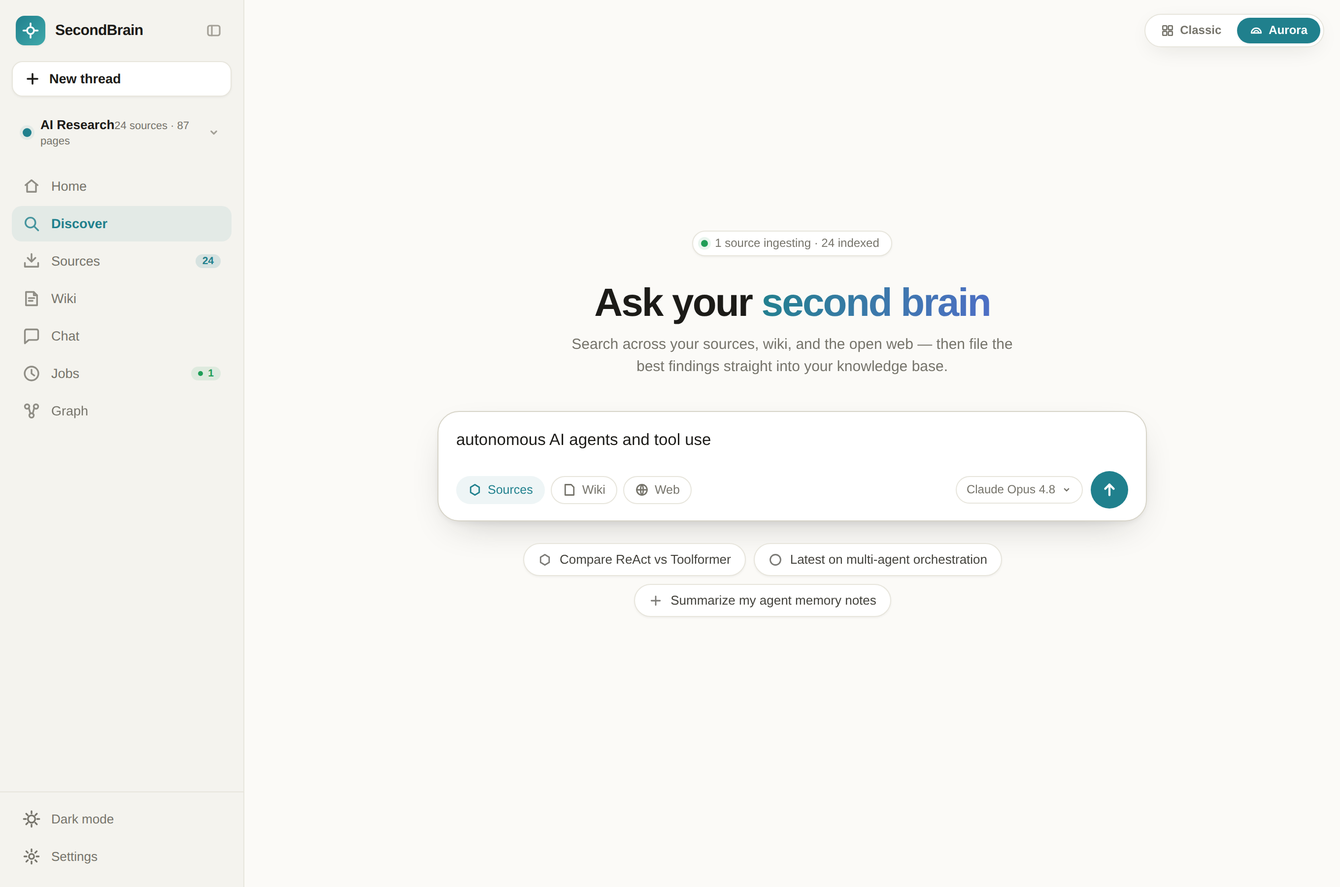
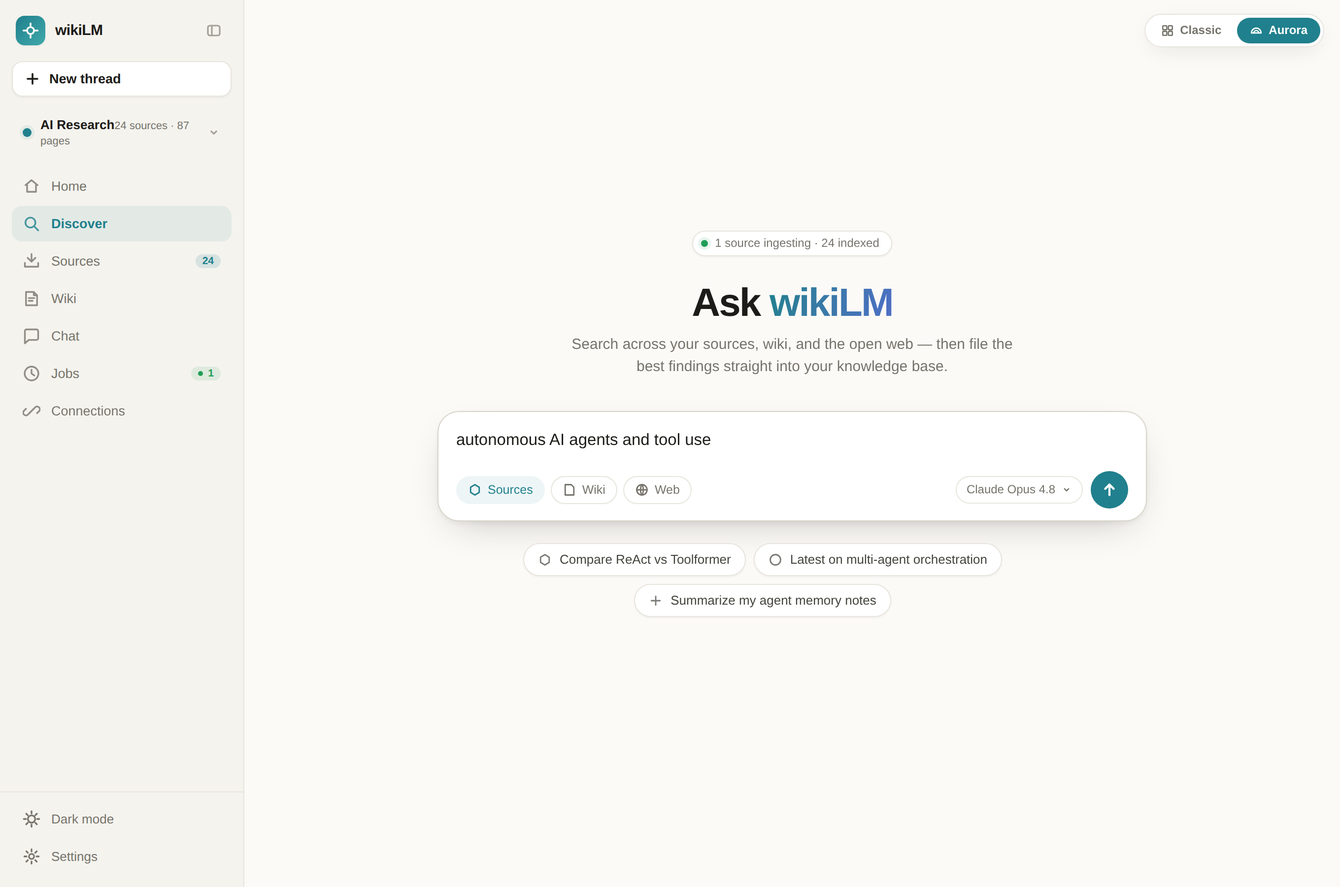
Rename to wikiLM, replace KG view with a Connections surface
- Rebrand SecondBrain -> wikiLM everywhere in both mockups (logo, title,
  chat sender, hero 'Ask wikiLM', composer placeholder).
- Remove the in-app Knowledge Graph view (Obsidian's graph replaces it).
- New Connections view (Aurora) with integration cards:
  * Claude API  - bring your own Anthropic key + model (vs Claude Pro)
  * MCP connectivity - drive wikiLM from Claude over MCP; reach out to
    other MCP servers; toggle gates Tavily availability
  * Notion - two-way sync so the wiki is readable/editable from Claude web+mobile
  * Tavily - web search for research, available when MCP is enabled
  * Obsidian - export pages as linked Markdown into a vault; Obsidian draws the graph
- Classic mockup: Graph nav -> Connections; brand renamed.
- showView now guards unknown views; palette + g-shortcuts updated.

Verified headless: all-pass smoke (rename, nav, 5 integration cards,
Tavily MCP-gating, palette) with zero JS errors; screenshots refreshed.

Claude-Session: https://claude.ai/code/session_01SDP3HT3M86EHRa3pb1VFTi

Changed region(s): [[0.4375, 0.3111, 0.75, 0.3733], [0.0312, 0.0311, 0.0938, 0.0622], [0.0625, 0.4356, 0.0938, 0.4667]]

diff --git a/mockup-perplexity.html b/mockup-perplexity.html
@@ -3,13 +3,13 @@
 <head>
 <meta charset="UTF-8">
 <meta name="viewport" content="width=device-width, initial-scale=1.0">
-<title>SecondBrain — Aurora Frontend</title>
+<title>wikiLM — Aurora Frontend</title>
 <link rel="preconnect" href="https://fonts.googleapis.com">
 <link rel="preconnect" href="https://fonts.gstatic.com" crossorigin>
 <link href="https://fonts.googleapis.com/css2?family=Inter:wght@350..700&display=swap" rel="stylesheet">
 <style>
   /* ════════════════════════════════════════════════════════════
-     SecondBrain · "Aurora" — a clean, search-first frontend (Perplexity-inspired)
+     wikiLM · "Aurora" — a clean, search-first frontend (Perplexity-inspired)
      Clean, paper-warm, true-turquoise accent. No italics anywhere.
      Smooth cubic-bezier motion. Fully navigable: Discover, Sources,
      Wiki, Chat, Jobs, Graph, Settings.
@@ -598,6 +598,30 @@
   .mini-link { font-size: 12px; color: var(--accent); cursor: pointer; background: none; border: none; font-family: inherit; }
   .mini-link:hover { text-decoration: underline; }
 
+  /* ════════ Connections / integrations ════════ */
+  .intg { background: var(--surface); border: 1px solid var(--border); border-radius: 16px; padding: 18px 20px; margin-bottom: 12px;
+    transition: all 200ms var(--ease); opacity: 0; transform: translateY(10px); animation: rise 500ms var(--ease) forwards; }
+  .intg:hover { border-color: var(--border-strong); box-shadow: var(--shadow-sm); }
+  .intg.off { opacity: 0.6; }
+  .intg-top { display: flex; align-items: center; gap: 13px; }
+  .intg-icon { width: 40px; height: 40px; border-radius: 11px; flex-shrink: 0; display: flex; align-items: center; justify-content: center; color: #fff; }
+  .intg-icon svg { width: 20px; height: 20px; }
+  .intg-name { font-size: 15px; font-weight: 620; color: var(--text-1); display: flex; align-items: center; gap: 9px; }
+  .intg-desc { font-size: 12.5px; color: var(--text-3); margin-top: 2px; line-height: 1.45; max-width: 64ch; }
+  .intg-status { font-size: 10.5px; font-weight: 680; padding: 2px 9px; border-radius: 100px; text-transform: uppercase; letter-spacing: 0.03em; }
+  .intg-status.on { background: var(--green-wash); color: var(--green); }
+  .intg-status.avail { background: var(--accent-wash-2); color: var(--accent); }
+  .intg-status.no { background: var(--bg-2); color: var(--text-3); }
+  .intg-actions { margin-left: auto; display: flex; align-items: center; gap: 8px; flex-shrink: 0; }
+  .intg-config { margin-top: 14px; padding-top: 14px; border-top: 1px solid var(--border); display: flex; flex-direction: column; gap: 10px; }
+  .intg-field { display: flex; align-items: center; gap: 10px; }
+  .intg-field label { font-size: 12.5px; color: var(--text-2); font-weight: 520; width: 110px; flex-shrink: 0; }
+  .intg-input { flex: 1; background: var(--bg-0); border: 1px solid var(--border-input, var(--border)); border-radius: 9px; padding: 8px 11px;
+    font-family: ui-monospace, monospace; font-size: 12.5px; color: var(--text-1); outline: none; transition: all 150ms var(--ease); }
+  .intg-input:focus { border-color: var(--accent); box-shadow: 0 0 0 3px var(--ring); }
+  .intg-note { font-size: 11.5px; color: var(--text-4); display: flex; align-items: center; gap: 6px; }
+  .intg-note svg { width: 13px; height: 13px; }
+
   /* ════════ Command palette (⌘K) ════════ */
   .overlay { position: fixed; inset: 0; z-index: 300; background: rgba(10,10,12,0.42); backdrop-filter: blur(3px);
     display: flex; opacity: 0; pointer-events: none; transition: opacity 220ms var(--ease); }
@@ -768,7 +792,7 @@
       <div class="logo-mark">
         <svg viewBox="0 0 16 16" fill="none" stroke="#fff" stroke-width="1.7"><circle cx="8" cy="8" r="3.3"/><path d="M8 1.2v2.2M8 12.6v2.2M1.2 8h2.2M12.6 8h2.2"/></svg>
       </div>
-      <span class="logo-text">SecondBrain</span>
+      <span class="logo-text">wikiLM</span>
       <button class="collapse-btn" onclick="toggleSidebar()" title="Collapse sidebar">
         <svg width="16" height="16" viewBox="0 0 16 16" fill="none" stroke="currentColor" stroke-width="1.6"><rect x="2" y="3" width="12" height="10" rx="2"/><line x1="6" y1="3" x2="6" y2="13"/></svg>
       </button>
@@ -814,9 +838,9 @@
       <a class="nav-item" data-view="jobs" onclick="showView('jobs')">
         <svg viewBox="0 0 16 16" fill="none" stroke="currentColor" stroke-width="1.5"><circle cx="8" cy="8" r="6.2"/><polyline points="8,4.5 8,8 10.5,9.8"/></svg>
         <span class="lbl">Jobs</span><span class="badge run">1</span></a>
-      <a class="nav-item" data-view="graph" onclick="showView('graph')">
-        <svg viewBox="0 0 16 16" fill="none" stroke="currentColor" stroke-width="1.5"><circle cx="4" cy="4" r="2"/><circle cx="12" cy="4" r="2"/><circle cx="8" cy="12" r="2"/><line x1="5.5" y1="5" x2="7" y2="10.5"/><line x1="10.5" y1="5" x2="9" y2="10.5"/></svg>
-        <span class="lbl">Graph</span></a>
+      <a class="nav-item" data-view="connections" onclick="showView('connections')">
+        <svg viewBox="0 0 16 16" fill="none" stroke="currentColor" stroke-width="1.5"><path d="M6.5 9.5l-2 2a2.5 2.5 0 01-3.5-3.5l2-2"/><path d="M9.5 6.5l2-2a2.5 2.5 0 013.5 3.5l-2 2"/><line x1="6" y1="10" x2="10" y2="6"/></svg>
+        <span class="lbl">Connections</span></a>
     </nav>
 
     <div class="side-foot">
@@ -864,7 +888,7 @@
       <section class="view active" id="view-discover">
         <div class="home" id="home">
           <span class="hero-badge"><span class="pip"></span> 1 source ingesting · 24 indexed</span>
-          <h1 class="hero-title">Ask your <span class="grad">second brain</span></h1>
+          <h1 class="hero-title">Ask <span class="grad">wikiLM</span></h1>
           <p class="hero-sub">Search across your sources, wiki, and the open web — then file the best findings straight into your knowledge base.</p>
           <div class="composer-wrap">
             <div class="composer" id="composer">
@@ -990,7 +1014,7 @@
           <div class="chat-msgs" id="chatMsgs"></div>
           <div class="chat-composer">
             <div class="chat-box">
-              <input id="chatInput" placeholder="Message your second brain…" onkeydown="if(event.key==='Enter')sendChat()">
+              <input id="chatInput" placeholder="Message wikiLM…" onkeydown="if(event.key==='Enter')sendChat()">
               <button class="model-chip">Claude Opus 4.8 <svg width="11" height="11" viewBox="0 0 16 16" fill="none" stroke="currentColor" stroke-width="1.8"><path d="M5 6.5l3 3 3-3"/></svg></button>
               <button class="send" onclick="sendChat()"><svg width="17" height="17" viewBox="0 0 16 16" fill="none" stroke="currentColor" stroke-width="2"><line x1="8" y1="13" x2="8" y2="3"/><path d="M4 7l4-4 4 4"/></svg></button>
             </div>
@@ -1007,25 +1031,78 @@
       </section>
 
       <!-- ════ GRAPH ════ -->
-      <section class="view" id="view-graph">
-        <div class="graph-wrap">
-          <div class="page-head row">
-            <div><h1 class="page-title">Knowledge graph</h1><p class="page-sub">87 pages · 142 links · hover a node to trace its connections</p></div>
-            <span class="spacer"></span>
-            <button class="btn ghost" onclick="showToast('Re-laying out graph…')"><svg viewBox="0 0 16 16" fill="none" stroke="currentColor" stroke-width="1.6"><path d="M13 3v3h-3M3 13v-3h3"/><path d="M13 6A5.5 5.5 0 003 7M3 10a5.5 5.5 0 0010 -1"/></svg> Re-layout</button>
-          </div>
-          <div class="graph-stage" id="graphStage">
-            <div class="graph-ctrls">
-              <button class="gctrl" onclick="graphZoom(1.25)" title="Zoom in"><svg width="15" height="15" viewBox="0 0 16 16" fill="none" stroke="currentColor" stroke-width="1.8"><line x1="8" y1="4" x2="8" y2="12"/><line x1="4" y1="8" x2="12" y2="8"/></svg></button>
-              <button class="gctrl" onclick="graphZoom(0.8)" title="Zoom out"><svg width="15" height="15" viewBox="0 0 16 16" fill="none" stroke="currentColor" stroke-width="1.8"><line x1="4" y1="8" x2="12" y2="8"/></svg></button>
-              <button class="gctrl" onclick="graphReset()" title="Reset view"><svg width="14" height="14" viewBox="0 0 16 16" fill="none" stroke="currentColor" stroke-width="1.7"><path d="M2 8a6 6 0 116 6"/><path d="M2 12V8h4"/></svg></button>
+      <section class="view" id="view-connections">
+        <div class="page">
+          <div class="page-head"><h1 class="page-title">Connections</h1><p class="page-sub">Bring wikiLM into your tools — drive it from Claude over MCP, sync to Notion, and let Obsidian draw the graph.</p></div>
+
+          <!-- Claude API -->
+          <div class="intg" style="animation-delay:0ms">
+            <div class="intg-top">
+              <span class="intg-icon" style="background:#d97757"><svg viewBox="0 0 16 16" fill="none" stroke="#fff" stroke-width="1.7"><path d="M8 1.5l5.5 9.5h-11z"/><line x1="8" y1="6" x2="8" y2="9"/></svg></span>
+              <div><div class="intg-name">Claude API <span class="intg-status on">Connected</span></div>
+                <div class="intg-desc">Use your own Anthropic API key and model instead of a Claude subscription. Powers answers, chat, and synthesis.</div></div>
+              <div class="intg-actions"><button class="btn ghost" onclick="showToast('Tested — key valid')">Test</button></div>
+            </div>
+            <div class="intg-config">
+              <div class="intg-field"><label>API key</label><input class="intg-input" type="password" value="sk-ant-api03-•••••••••••••••••••••••" onchange="showToast('API key saved')"></div>
+              <div class="intg-field"><label>Model</label><div class="select" onclick="showToast('Model menu (mock)')">Claude Opus 4.8 <svg viewBox="0 0 16 16" fill="none" stroke="currentColor" stroke-width="1.8"><path d="M5 6.5l3 3 3-3"/></svg></div>
+                <span class="intg-note"><svg viewBox="0 0 16 16" fill="none" stroke="currentColor" stroke-width="1.6"><circle cx="8" cy="8" r="6.5"/><line x1="8" y1="7" x2="8" y2="11"/><circle cx="8" cy="4.6" r="0.6" fill="currentColor"/></svg> Falls back to Claude Pro if no key is set</span></div>
             </div>
           </div>
-          <div class="graph-legend">
-            <div class="glegend"><span class="gl" style="background:var(--accent)"></span> Concept</div>
-            <div class="glegend"><span class="gl" style="background:#2f6fed"></span> Paper</div>
-            <div class="glegend"><span class="gl" style="background:#7c5cff"></span> Method</div>
-            <div class="glegend"><span class="gl" style="background:var(--amber)"></span> Note</div>
+
+          <!-- MCP connectivity -->
+          <div class="intg" style="animation-delay:60ms">
+            <div class="intg-top">
+              <span class="intg-icon" style="background:var(--accent)"><svg viewBox="0 0 16 16" fill="none" stroke="var(--accent-fg)" stroke-width="1.6"><path d="M6.5 9.5l-2 2a2.5 2.5 0 01-3.5-3.5l2-2"/><path d="M9.5 6.5l2-2a2.5 2.5 0 013.5 3.5l-2 2"/><line x1="6" y1="10" x2="10" y2="6"/></svg></span>
+              <div><div class="intg-name">MCP connectivity <span class="intg-status on">Enabled</span></div>
+                <div class="intg-desc">Control wikiLM from Claude Code, Desktop, or the web/mobile app over the Model Context Protocol — and let wikiLM reach other MCP servers (Notion, Tavily) in turn.</div></div>
+              <div class="intg-actions"><div class="toggle on" id="mcpToggle" onclick="toggleMcp()"></div></div>
+            </div>
+            <div class="intg-config">
+              <div class="intg-field"><label>Server</label><input class="intg-input" value="wikilm-mcp · node mcp/dist/index.js (stdio)" readonly></div>
+              <div class="intg-note"><svg viewBox="0 0 16 16" fill="none" stroke="currentColor" stroke-width="1.6"><polyline points="3,8 7,12 13,4"/></svg> Exposes list/search/read wiki, projects, and save-note tools to Claude</div>
+            </div>
+          </div>
+
+          <!-- Notion -->
+          <div class="intg" style="animation-delay:120ms">
+            <div class="intg-top">
+              <span class="intg-icon" style="background:#111"><svg viewBox="0 0 16 16" fill="none" stroke="#fff" stroke-width="1.4"><rect x="3" y="2.5" width="10" height="11" rx="1"/><path d="M5.5 5.5v5M5.5 5.5l3 5M8.5 5.5v5"/></svg></span>
+              <div><div class="intg-name">Notion <span class="intg-status on">Synced</span></div>
+                <div class="intg-desc">Two-way sync your wiki to a Notion workspace, so you can read and edit it from Claude on web and mobile. Last synced 4 minutes ago.</div></div>
+              <div class="intg-actions"><button class="btn ghost" onclick="showToast('Syncing 87 pages to Notion…')"><svg viewBox="0 0 16 16" fill="none" stroke="currentColor" stroke-width="1.6"><path d="M13 3v3h-3M3 13v-3h3"/><path d="M13 6A5.5 5.5 0 003 7M3 10a5.5 5.5 0 0010 -1"/></svg> Sync now</button></div>
+            </div>
+            <div class="intg-config">
+              <div class="intg-field"><label>Workspace</label><input class="intg-input" value="AI Research · /wikiLM (database)" readonly></div>
+              <div class="intg-field"><label>Direction</label><div class="select" onclick="showToast('Sync direction (mock)')">Two-way <svg viewBox="0 0 16 16" fill="none" stroke="currentColor" stroke-width="1.8"><path d="M5 6.5l3 3 3-3"/></svg></div></div>
+            </div>
+          </div>
+
+          <!-- Tavily (gated on MCP) -->
+          <div class="intg" id="tavilyCard" style="animation-delay:180ms">
+            <div class="intg-top">
+              <span class="intg-icon" style="background:#2f6fed"><svg viewBox="0 0 16 16" fill="none" stroke="#fff" stroke-width="1.7"><circle cx="7" cy="7" r="4.5"/><line x1="10.5" y1="10.5" x2="14" y2="14"/></svg></span>
+              <div><div class="intg-name">Tavily <span class="intg-status avail" id="tavilyStatus">Available</span></div>
+                <div class="intg-desc">High-quality web search for research runs. Available whenever MCP connectivity is enabled.</div></div>
+              <div class="intg-actions"><button class="btn primary" id="tavilyBtn" onclick="showToast('Tavily connected')">Connect</button></div>
+            </div>
+            <div class="intg-config">
+              <div class="intg-field"><label>API key</label><input class="intg-input" type="password" placeholder="tvly-••••••••••••••••"></div>
+            </div>
+          </div>
+
+          <!-- Obsidian (replaces the graph) -->
+          <div class="intg" style="animation-delay:240ms">
+            <div class="intg-top">
+              <span class="intg-icon" style="background:#7c5cff"><svg viewBox="0 0 16 16" fill="none" stroke="#fff" stroke-width="1.4"><path d="M8 1.5l4.5 3v7L8 14.5 3.5 11.5v-7z"/><circle cx="8" cy="8" r="1.6"/></svg></span>
+              <div><div class="intg-name">Obsidian <span class="intg-status on">Vault linked</span></div>
+                <div class="intg-desc">wikiLM exports pages as linked Markdown into an Obsidian vault — so Obsidian's graph view does the heavy lifting, no in-app graph needed.</div></div>
+              <div class="intg-actions"><button class="btn ghost" onclick="showToast('Exported 87 pages to vault')"><svg viewBox="0 0 16 16" fill="none" stroke="currentColor" stroke-width="1.6"><path d="M8 2v8M4.5 6.5L8 10l3.5-3.5"/><path d="M2.5 11v2.5h11V11"/></svg> Export now</button></div>
+            </div>
+            <div class="intg-config">
+              <div class="intg-field"><label>Vault path</label><input class="intg-input" value="~/Obsidian/AI Research" onchange="showToast('Vault path saved')"></div>
+              <div class="intg-note"><svg viewBox="0 0 16 16" fill="none" stroke="currentColor" stroke-width="1.6"><path d="M3 8h10M8 3v10"/></svg> Pages link with [[wikilinks]]; open the vault in Obsidian to explore the graph</div>
+            </div>
           </div>
         </div>
       </section>
@@ -1135,7 +1212,7 @@
   ];
 
   const LIBRARY = [
-    { type:'PDF', color:'var(--red)', title:'Karpathy — LLM Wiki Second Brain', meta:'Medium · Apr 2026', status:'ingested', stat:'Ingested · 14 pages', cls:'pdf' },
+    { type:'PDF', color:'var(--red)', title:'Karpathy — Building an LLM Wiki', meta:'Medium · Apr 2026', status:'ingested', stat:'Ingested · 14 pages', cls:'pdf' },
     { type:'Web', color:'var(--accent)', title:'Attention Is All You Need', meta:'arXiv · 2017', status:'ingested', stat:'Ingested · 22 pages', cls:'web' },
     { type:'Web', color:'var(--accent)', title:'The Bitter Lesson — Rich Sutton', meta:'sutton.ca · 2019', status:'ingested', stat:'Ingested · 8 pages', cls:'web' },
     { type:'Note', color:'var(--amber)', title:'Meeting notes — AI strategy sync', meta:'Personal · Apr 12', status:'pending', stat:'Pending ingestion', cls:'note' },
@@ -1295,6 +1372,15 @@
     const tg = document.getElementById('setSideToggle'); if (tg) tg.classList.toggle('on', !c);
   }
   function toggleDrawer(){ const o = document.body.dataset.drawer === 'open'; document.body.dataset.drawer = o ? '' : 'open'; }
+  function toggleMcp(){
+    const t = document.getElementById('mcpToggle'); const on = t.classList.toggle('on');
+    // Tavily is only available when MCP connectivity is on
+    const card = document.getElementById('tavilyCard'), st = document.getElementById('tavilyStatus'), btn = document.getElementById('tavilyBtn');
+    card.classList.toggle('off', !on);
+    st.textContent = on ? 'Available' : 'Needs MCP'; st.className = 'intg-status ' + (on ? 'avail' : 'no');
+    btn.disabled = !on; btn.style.opacity = on ? '1' : '0.5'; btn.style.pointerEvents = on ? 'auto' : 'none';
+    showToast(on ? 'MCP connectivity enabled' : 'MCP connectivity disabled');
+  }
   function togglePill(el){ el.classList.toggle('on'); }
   function toggleProj(e){ e.stopPropagation(); document.getElementById('projMenu').classList.toggle('open'); }
   document.addEventListener('click', e => { if (!e.target.closest('.proj')) document.getElementById('projMenu').classList.remove('open'); });
@@ -1302,8 +1388,9 @@
   /* ───────── View routing ───────── */
   const built = {};
   function showView(name){
-    document.querySelectorAll('.view').forEach(v => v.classList.remove('active'));
     const view = document.getElementById('view-' + name);
+    if (!view) return; // unknown view — ignore (e.g. removed Graph)
+    document.querySelectorAll('.view').forEach(v => v.classList.remove('active'));
     view.classList.add('active');
     // Restart the entry animation so the transition plays on *every* navigation,
     // not just the first time the view is shown.
@@ -1316,7 +1403,6 @@
     if (name === 'wiki' && !built.wiki){ renderWikiList(); selectWiki(WIKI[0].slug); built.wiki = true; }
     if (name === 'chat' && !built.chat){ renderChat(); built.chat = true; }
     if (name === 'jobs'){ renderJobs(); }
-    if (name === 'graph' && !built.graph){ renderGraph(); built.graph = true; }
     if (name === 'settings'){ syncSettings(); }
   }
   function syncSettings(){
@@ -1525,7 +1611,7 @@
       <div class="cite-panel-body"><div>${rows}</div></div></div>`;
   }
   function msgHTML(m){
-    const who = m.who === 'user' ? 'You' : 'SecondBrain';
+    const who = m.who === 'user' ? 'You' : 'wikiLM';
     const av = m.who === 'user' ? 'NE' : '<svg width="15" height="15" viewBox="0 0 16 16" fill="none" stroke="currentColor" stroke-width="1.7"><circle cx="8" cy="8" r="3.3"/><path d="M8 1.2v2.2M8 12.6v2.2M1.2 8h2.2M12.6 8h2.2"/></svg>';
     const cites = m.who === 'bot' ? citePanelHTML(m.cites) : '';
     const actions = m.who === 'bot' ? `<div class="msg-actions"><button class="tool" onclick="showToast('Saved as note')"><svg viewBox="0 0 16 16" fill="none" stroke="currentColor" stroke-width="1.7"><path d="M3 2h10v13l-5-3.5L3 15z"/></svg> Save as note</button><button class="tool" onclick="showToast('Copied')"><svg viewBox="0 0 16 16" fill="none" stroke="currentColor" stroke-width="1.7"><rect x="3" y="3" width="8" height="8" rx="1.5"/><path d="M6 3V2.5A1.5 1.5 0 017.5 1H13a1.5 1.5 0 011.5 1.5V8a1.5 1.5 0 01-1.5 1.5h-.5"/></svg> Copy</button></div>` : '';
@@ -1543,7 +1629,7 @@
     const box = document.getElementById('chatMsgs');
     const u = document.createElement('div'); u.className = 'msg user'; u.innerHTML = msgHTML({ who:'user', text:`<p>${q}</p>` }); box.appendChild(u);
     const b = document.createElement('div'); b.className = 'msg bot';
-    b.innerHTML = `<div class="av"><svg width="15" height="15" viewBox="0 0 16 16" fill="none" stroke="currentColor" stroke-width="1.7"><circle cx="8" cy="8" r="3.3"/><path d="M8 1.2v2.2M8 12.6v2.2M1.2 8h2.2M12.6 8h2.2"/></svg></div><div class="body"><div class="who">SecondBrain</div><div class="txt"><div class="typing"><span></span><span></span><span></span></div></div></div>`;
+    b.innerHTML = `<div class="av"><svg width="15" height="15" viewBox="0 0 16 16" fill="none" stroke="currentColor" stroke-width="1.7"><circle cx="8" cy="8" r="3.3"/><path d="M8 1.2v2.2M8 12.6v2.2M1.2 8h2.2M12.6 8h2.2"/></svg></div><div class="body"><div class="who">wikiLM</div><div class="txt"><div class="typing"><span></span><span></span><span></span></div></div></div>`;
     box.appendChild(b);
     document.getElementById('scroll').scrollTop = document.getElementById('scroll').scrollHeight;
     setTimeout(() => {
@@ -1705,7 +1791,7 @@
     { group:'Go to', icon:'wiki', label:'Wiki', run:()=>showView('wiki') },
     { group:'Go to', icon:'chat', label:'Chat', run:()=>showView('chat') },
     { group:'Go to', icon:'jobs', label:'Jobs', run:()=>showView('jobs') },
-    { group:'Go to', icon:'graph', label:'Graph', run:()=>showView('graph') },
+    { group:'Go to', icon:'conn', label:'Connections', run:()=>showView('connections') },
     { group:'Go to', icon:'gear', label:'Settings', run:()=>showView('settings') },
     { group:'Actions', icon:'plus', label:'New thread', sub:'⌘⇧O', run:()=>newThread() },
     { group:'Actions', icon:'theme', label:'Toggle light / dark', sub:'⌘J', run:()=>toggleTheme() },
@@ -1717,7 +1803,8 @@
     src:'<path d="M8 1.5v7M4.5 5L8 8.5 11.5 5"/><path d="M2 9.5v3.5h12V9.5"/>', wiki:'<path d="M3 2h7l3 3v9H3z"/>', chat:'<path d="M14 10a1.5 1.5 0 01-1.5 1.5h-7L2 14.5V3.5A1.5 1.5 0 013.5 2h9A1.5 1.5 0 0114 3.5z"/>',
     jobs:'<circle cx="8" cy="8" r="6.2"/><polyline points="8,4.5 8,8 10.5,9.8"/>', graph:'<circle cx="4" cy="4" r="2"/><circle cx="12" cy="4" r="2"/><circle cx="8" cy="12" r="2"/>',
     gear:'<circle cx="8" cy="8" r="2.3"/><path d="M8 1.5v2M8 12.5v2M1.5 8h2M12.5 8h2"/>', plus:'<line x1="8" y1="3" x2="8" y2="13"/><line x1="3" y1="8" x2="13" y2="8"/>',
-    theme:'<circle cx="8" cy="8" r="3.3"/><line x1="8" y1="1" x2="8" y2="3"/><line x1="8" y1="13" x2="8" y2="15"/>', key:'<rect x="2" y="5" width="12" height="7" rx="1.5"/>'
+    theme:'<circle cx="8" cy="8" r="3.3"/><line x1="8" y1="1" x2="8" y2="3"/><line x1="8" y1="13" x2="8" y2="15"/>', key:'<rect x="2" y="5" width="12" height="7" rx="1.5"/>',
+    conn:'<path d="M6.5 9.5l-2 2a2.5 2.5 0 01-3.5-3.5l2-2"/><path d="M9.5 6.5l2-2a2.5 2.5 0 013.5 3.5l-2 2"/><line x1="6" y1="10" x2="10" y2="6"/>'
   };
   let palSel = 0, palItems = [];
   function openPalette(){ openOverlay('paletteOverlay'); const i = document.getElementById('paletteInput'); i.value=''; renderPalette(''); setTimeout(()=>i.focus(),60); }
@@ -1757,7 +1844,7 @@
     if (e.key === '/'){ e.preventDefault(); showView('discover'); newThread(); return; }
     if (e.key === '?'){ openShortcuts(); return; }
     if (e.key.toLowerCase() === 'g'){ gPending = true; setTimeout(()=>gPending=false, 800); return; }
-    if (gPending){ const map = { h:'home', d:'discover', s:'sources', w:'wiki', c:'chat', j:'jobs', r:'graph' }; const v = map[e.key.toLowerCase()]; if (v){ showView(v); } gPending = false; }
+    if (gPending){ const map = { h:'home', d:'discover', s:'sources', w:'wiki', c:'chat', j:'jobs', o:'connections' }; const v = map[e.key.toLowerCase()]; if (v){ showView(v); } gPending = false; }
   });
 
   /* ───────── Toast ───────── */

diff --git a/mockup.html b/mockup.html
@@ -3,7 +3,7 @@
 <head>
 <meta charset="UTF-8">
 <meta name="viewport" content="width=device-width, initial-scale=1.0">
-<title>SecondBrain — Mockup</title>
+<title>wikiLM — Mockup</title>
 <link rel="preconnect" href="https://fonts.googleapis.com">
 <link href="https://fonts.googleapis.com/css2?family=Inter:wght@350..700&family=JetBrains+Mono:wght@400;500&display=swap" rel="stylesheet">
 <style>
@@ -872,7 +872,7 @@
       <div class="logo-mark">
         <svg viewBox="0 0 16 16" fill="none" stroke="#fff" stroke-width="1.8"><circle cx="8" cy="8" r="3.5"/><path d="M8 1v3M8 12v3M1 8h3M12 8h3"/></svg>
       </div>
-      <span class="logo-text">SecondBrain</span>
+      <span class="logo-text">wikiLM</span>
     </div>
 
     <!-- Project Switcher -->
@@ -936,8 +936,8 @@
         <span class="nav-badge running">1</span>
       </a>
       <a class="nav-item">
-        <svg class="nav-icon" viewBox="0 0 16 16" fill="none" stroke="currentColor" stroke-width="1.5"><circle cx="4" cy="4" r="2"/><circle cx="12" cy="4" r="2"/><circle cx="4" cy="12" r="2"/><circle cx="12" cy="12" r="2"/><line x1="6" y1="4" x2="10" y2="4"/><line x1="4" y1="6" x2="4" y2="10"/><line x1="6" y1="5.5" x2="10" y2="10.5"/></svg>
-        Graph
+        <svg class="nav-icon" viewBox="0 0 16 16" fill="none" stroke="currentColor" stroke-width="1.5"><path d="M6.5 9.5l-2 2a2.5 2.5 0 01-3.5-3.5l2-2"/><path d="M9.5 6.5l2-2a2.5 2.5 0 013.5 3.5l-2 2"/><line x1="6" y1="10" x2="10" y2="6"/></svg>
+        Connections
       </a>
 
       <div class="nav-divider"></div>
@@ -996,7 +996,7 @@
           <div class="lib-grid">
             <div class="lib-card">
               <div class="lib-type"><span class="lib-type-dot pdf"></span>PDF</div>
-              <div class="lib-title">Karpathy — LLM Wiki Second Brain</div>
+              <div class="lib-title">Karpathy — Building an LLM Wiki</div>
               <div class="lib-meta">Medium &middot; Apr 2026</div>
               <div class="lib-status ingested"><span class="lib-status-dot"></span> Ingested &middot; 14 pages</div>
             </div>
